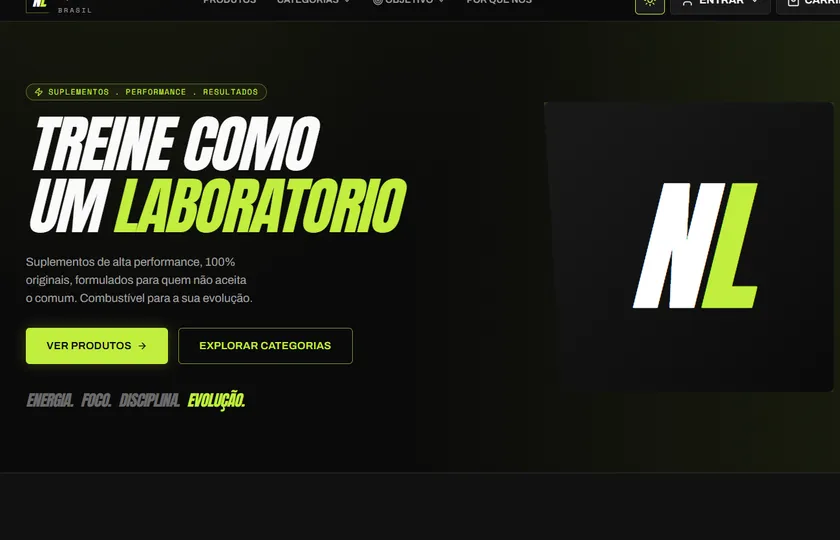
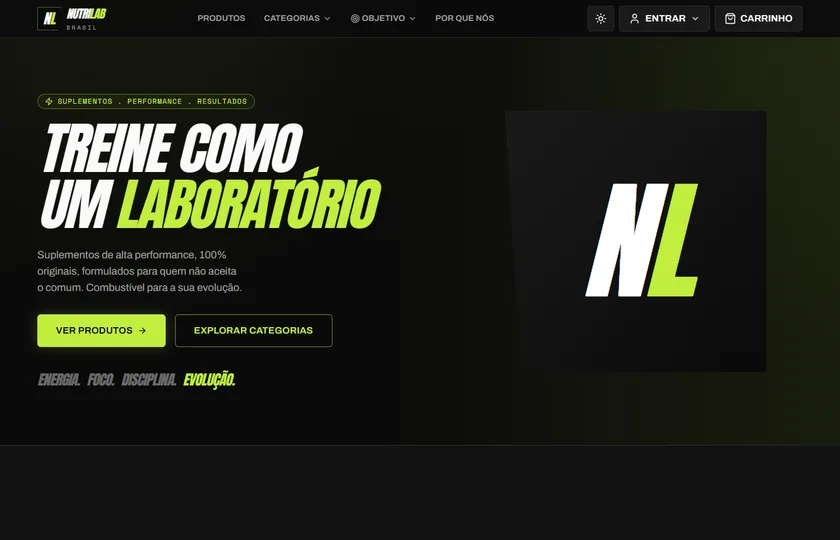
ux: foto centralizada, carrossel automático e projetos com prints completos
- Hero: foto centralizada (horizontal e vertical) abaixo do título, inteira
- Faixa de prints/tecnologias: carrossel contínuo (CSS), direções opostas,
  pausa no hover, respeita prefers-reduced-motion
- Projetos: cartões um abaixo do outro (sem sobrepor) e prints sem corte
- Prints da home do Nutri Lab refeitos com "laboratório" acentuado

diff --git a/src/components/ProjectsSection.tsx b/src/components/ProjectsSection.tsx
@@ -1,28 +1,19 @@
-import { useRef } from 'react';
-import { motion, useScroll, useTransform, type MotionValue } from 'framer-motion';
 import FadeIn from './FadeIn';
 import LiveProjectButton from './LiveProjectButton';
 import { projects, type Project } from '../content';
 
-const IMAGE_RADIUS = 'rounded-[40px] sm:rounded-[50px] md:rounded-[60px]';
+const CARD_RADIUS = 'rounded-[40px] sm:rounded-[50px] md:rounded-[60px]';
 
-interface ProjectCardProps {
-  project: Project;
-  index: number;
-  total: number;
-  progress: MotionValue<number>;
-}
-
-function ProjectCard({ project, index, total, progress }: ProjectCardProps) {
-  const targetScale = 1 - (total - 1 - index) * 0.03;
-  const scale = useTransform(progress, [index / total, 1], [1, targetScale]);
-  const [topLeft, bottomLeft, right] = project.images;
-
+/**
+ * Cada projeto é um cartão inteiro, um abaixo do outro (sem empilhar/cobrir).
+ * Os prints aparecem completos (object-contain): nada é cortado, dá pra ler a tela toda.
+ */
+function ProjectCard({ project }: { project: Project }) {
   return (
-    <div className="sticky top-24 h-[85vh] md:top-32">
-      <motion.article
-        className={`relative border-2 border-[#D7E2EA] p-4 sm:p-6 md:p-8 ${IMAGE_RADIUS}`}
-        style={{ background: '#0C0C0C', scale, top: index * 28, transformOrigin: 'top' }}
+    <FadeIn>
+      <article
+        className={`relative border-2 border-[#D7E2EA] p-4 sm:p-6 md:p-8 ${CARD_RADIUS}`}
+        style={{ background: '#0C0C0C' }}
       >
         <div className="mb-4 flex flex-wrap items-center gap-x-8 gap-y-4 sm:mb-6 md:mb-8">
           <div className="flex items-center gap-4 sm:gap-6 md:gap-8">
@@ -58,50 +49,24 @@ function ProjectCard({ project, index, total, progress }: ProjectCardProps) {
           )}
         </div>
 
-        <div className="grid grid-cols-[40fr_60fr] gap-3 sm:gap-4">
-          <div className="flex flex-col gap-3 sm:gap-4">
+        <div className="grid grid-cols-1 gap-3 sm:gap-4 md:grid-cols-3">
+          {project.images.map((image) => (
             <img
-              src={topLeft.src}
-              alt={topLeft.alt}
+              key={image.src}
+              src={image.src}
+              alt={image.alt}
               loading="lazy"
               draggable={false}
-              className={`w-full bg-white/5 object-cover ${IMAGE_RADIUS}`}
-              style={{ height: 'clamp(130px, 16vw, 230px)', objectPosition: topLeft.position }}
+              className="aspect-[16/10] w-full rounded-2xl border border-white/10 bg-white/5 object-contain sm:rounded-3xl"
             />
-            <img
-              src={bottomLeft.src}
-              alt={bottomLeft.alt}
-              loading="lazy"
-              draggable={false}
-              className={`w-full bg-white/5 object-cover ${IMAGE_RADIUS}`}
-              style={{ height: 'clamp(160px, 22vw, 340px)', objectPosition: bottomLeft.position }}
-            />
-          </div>
-          {/* Absolutely positioned so the tall image fills the row set by the left column
-              instead of stretching it to the picture's own aspect ratio. */}
-          <div className="relative">
-            <img
-              src={right.src}
-              alt={right.alt}
-              loading="lazy"
-              draggable={false}
-              className={`absolute inset-0 h-full w-full bg-white/5 object-cover ${IMAGE_RADIUS}`}
-              style={{ objectPosition: right.position }}
-            />
-          </div>
+          ))}
         </div>
-      </motion.article>
-    </div>
+      </article>
+    </FadeIn>
   );
 }
 
 export default function ProjectsSection() {
-  const container = useRef<HTMLDivElement>(null);
-  const { scrollYProgress } = useScroll({
-    target: container,
-    offset: ['start start', 'end end'],
-  });
-
   return (
     <section
       id="projetos"
@@ -117,15 +82,9 @@ export default function ProjectsSection() {
         </h2>
       </FadeIn>
 
-      <div ref={container} className="mx-auto max-w-[1440px]">
-        {projects.items.map((project, index) => (
-          <ProjectCard
-            key={project.number}
-            project={project}
-            index={index}
-            total={projects.items.length}
-            progress={scrollYProgress}
-          />
+      <div className="mx-auto flex max-w-[1440px] flex-col gap-8 md:gap-12">
+        {projects.items.map((project) => (
+          <ProjectCard key={project.number} project={project} />
         ))}
       </div>
     </section>

diff --git a/src/components/MarqueeSection.tsx b/src/components/MarqueeSection.tsx
@@ -1,9 +1,10 @@
-import { Fragment, useLayoutEffect, useRef, type ReactNode, type RefObject } from 'react';
+import { Fragment, type ReactNode } from 'react';
 import { showcase } from '../content';
 import { tech } from '../data/tech';
 
 const TILE_WIDTH = 420;
 const TILE_GAP = 12; // Tailwind gap-3
+const SPEED = 55; // px por segundo
 
 const shotTiles: ReactNode[] = showcase.map(({ src, alt }) => (
   <img
@@ -25,71 +26,46 @@ const techTiles: ReactNode[] = tech.map(({ label, icon }) => (
 
 interface MarqueeRowProps {
   tiles: ReactNode[];
-  rowRef: RefObject<HTMLDivElement>;
+  reverse?: boolean;
 }
 
-function MarqueeRow({ tiles, rowRef }: MarqueeRowProps) {
-  const tripled = [0, 1, 2].flatMap((copy) =>
-    tiles.map((tile, i) => <Fragment key={`${copy}-${i}`}>{tile}</Fragment>)
-  );
+/**
+ * Carrossel contínuo: a trilha tem 4 cópias dos cards (2 metades idênticas) e anda -50%
+ * em loop, então a emenda nunca aparece. Cada cópia leva `pr-3` para que o -50% caia
+ * exatamente no começo da segunda metade (sem pulo). Para ao passar o mouse.
+ */
+function MarqueeRow({ tiles, reverse = false }: MarqueeRowProps) {
+  // largura de uma metade (2 cópias) -> duração para manter a mesma velocidade em px/s
+  const halfWidth = tiles.length * 2 * (TILE_WIDTH + TILE_GAP);
+  const duration = `${Math.round(halfWidth / SPEED)}s`;
 
   return (
-    <div
-      ref={rowRef}
-      className="flex w-max gap-3"
-      // Start on the middle copy so the row has tiles to spare on both sides
-      // whichever direction it drifts.
-      style={{ marginLeft: -tiles.length * (TILE_WIDTH + TILE_GAP), willChange: 'transform' }}
-    >
-      {tripled}
+    <div className="marquee">
+      <div
+        className={`marquee-track flex w-max ${reverse ? 'marquee-reverse' : ''}`}
+        style={{ animationDuration: duration }}
+      >
+        {[0, 1, 2, 3].map((copy) => (
+          <div key={copy} className="flex shrink-0 gap-3 pr-3" aria-hidden={copy > 0 ? true : undefined}>
+            {tiles.map((tile, i) => (
+              <Fragment key={`${copy}-${i}`}>{tile}</Fragment>
+            ))}
+          </div>
+        ))}
+      </div>
     </div>
   );
 }
 
 export default function MarqueeSection() {
-  const sectionRef = useRef<HTMLElement>(null);
-  const row1Ref = useRef<HTMLDivElement>(null);
-  const row2Ref = useRef<HTMLDivElement>(null);
-
-  useLayoutEffect(() => {
-    const section = sectionRef.current;
-    if (!section) return;
-
-    let frame = 0;
-
-    const update = () => {
-      frame = 0;
-      const sectionTop = section.getBoundingClientRect().top + window.scrollY;
-      const offset = (window.scrollY - sectionTop + window.innerHeight) * 0.3;
-
-      if (row1Ref.current) row1Ref.current.style.transform = `translateX(${offset - 200}px)`;
-      if (row2Ref.current) row2Ref.current.style.transform = `translateX(${-(offset - 200)}px)`;
-    };
-
-    const onScroll = () => {
-      if (!frame) frame = requestAnimationFrame(update);
-    };
-
-    update();
-    window.addEventListener('scroll', onScroll, { passive: true });
-    window.addEventListener('resize', onScroll);
-
-    return () => {
-      window.removeEventListener('scroll', onScroll);
-      window.removeEventListener('resize', onScroll);
-      cancelAnimationFrame(frame);
-    };
-  }, []);
-
   return (
     <section
-      ref={sectionRef}
-      className="overflow-hidden pb-10 pt-24 sm:pt-32 md:pt-40"
+      className="marquee-section overflow-hidden pb-10 pt-24 sm:pt-32 md:pt-40"
       style={{ background: '#0C0C0C' }}
     >
       <div className="flex flex-col gap-3">
-        <MarqueeRow tiles={shotTiles} rowRef={row1Ref} />
-        <MarqueeRow tiles={techTiles} rowRef={row2Ref} />
+        <MarqueeRow tiles={shotTiles} />
+        <MarqueeRow tiles={techTiles} reverse />
       </div>
     </section>
   );

diff --git a/src/components/HeroSection.tsx b/src/components/HeroSection.tsx
@@ -48,8 +48,10 @@ export default function HeroSection() {
       </div>
 
       {/* Centering lives on this plain wrapper: FadeIn and Magnet both write an inline
-          transform, which would otherwise override the -translate-x-1/2 class. */}
-      <div className="absolute left-1/2 top-1/2 z-10 w-[260px] -translate-x-1/2 -translate-y-1/2 sm:bottom-0 sm:top-auto sm:w-[360px] sm:translate-y-0 md:w-[440px] lg:w-[520px]">
+          transform, which would otherwise override the -translate-x-1/2 class.
+          A foto fica centrada (horizontal e vertical) no espaço abaixo do título, inteira;
+          a largura também respeita a altura da tela (vh) para nunca invadir o título. */}
+      <div className="absolute left-1/2 top-[57%] z-10 w-[min(260px,36vh)] -translate-x-1/2 -translate-y-1/2 sm:w-[min(360px,44vh)] md:w-[min(440px,50vh)] lg:w-[min(520px,52vh)]">
         <FadeIn delay={0.6} y={30}>
           <Magnet
             padding={150}
@@ -58,9 +60,7 @@ export default function HeroSection() {
             inactiveTransition="transform 0.6s ease-in-out"
             wrapperClassName="relative block w-full"
           >
-            {/* Photo, not a cut-out: a rounded frame on mobile, an arch that sinks into the
-                page background on larger screens. */}
-            <div className="relative overflow-hidden rounded-[40px] border border-white/10 sm:rounded-b-none sm:rounded-t-[60px] sm:border-b-0">
+            <div className="relative overflow-hidden rounded-[40px] border border-white/10 sm:rounded-[60px]">
               <picture>
                 <source srcSet={hero.photo.webp} type="image/webp" />
                 <img
@@ -70,10 +70,6 @@ export default function HeroSection() {
                   className="block aspect-square h-auto w-full select-none object-cover"
                 />
               </picture>
-              <div
-                aria-hidden="true"
-                className="pointer-events-none absolute inset-x-0 bottom-0 hidden h-2/5 bg-gradient-to-t from-[#0C0C0C] via-[#0C0C0C]/60 to-transparent sm:block"
-              />
             </div>
           </Magnet>
         </FadeIn>

diff --git a/src/index.css b/src/index.css
@@ -28,3 +28,31 @@ body {
   background-clip: text;
   -webkit-text-fill-color: transparent;
 }
+
+/* Carrossel contínuo (faixa de prints e tecnologias) */
+@keyframes marquee-scroll {
+  from { transform: translateX(0); }
+  to { transform: translateX(-50%); }
+}
+
+.marquee-track {
+  animation: marquee-scroll 60s linear infinite;
+  will-change: transform;
+}
+
+.marquee-reverse {
+  animation-direction: reverse;
+}
+
+.marquee:hover .marquee-track {
+  animation-play-state: paused;
+}
+
+@media (prefers-reduced-motion: reduce) {
+  .marquee-track {
+    animation: none;
+  }
+  .marquee-section {
+    overflow-x: auto;
+  }
+}
